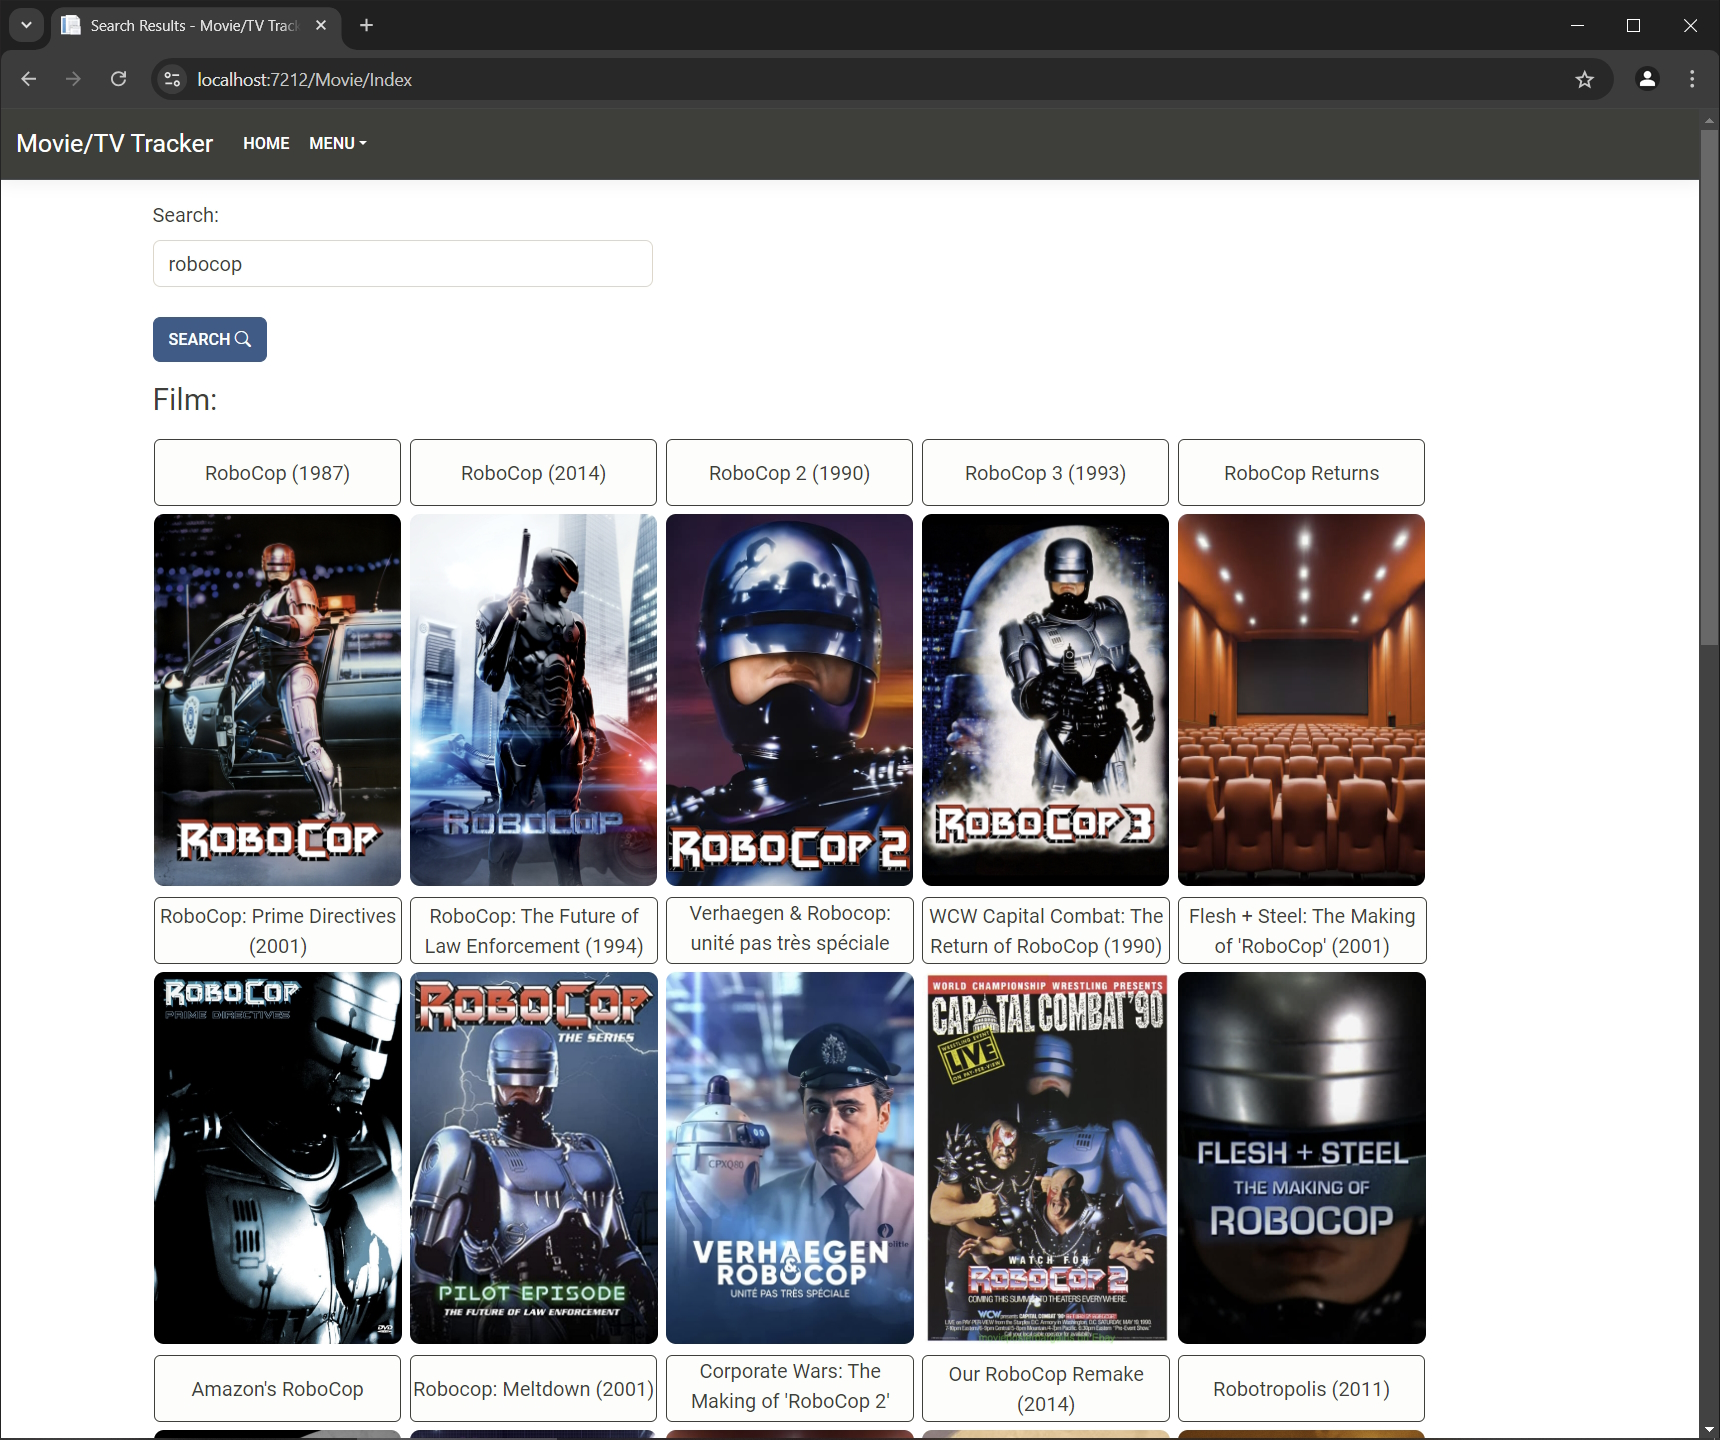
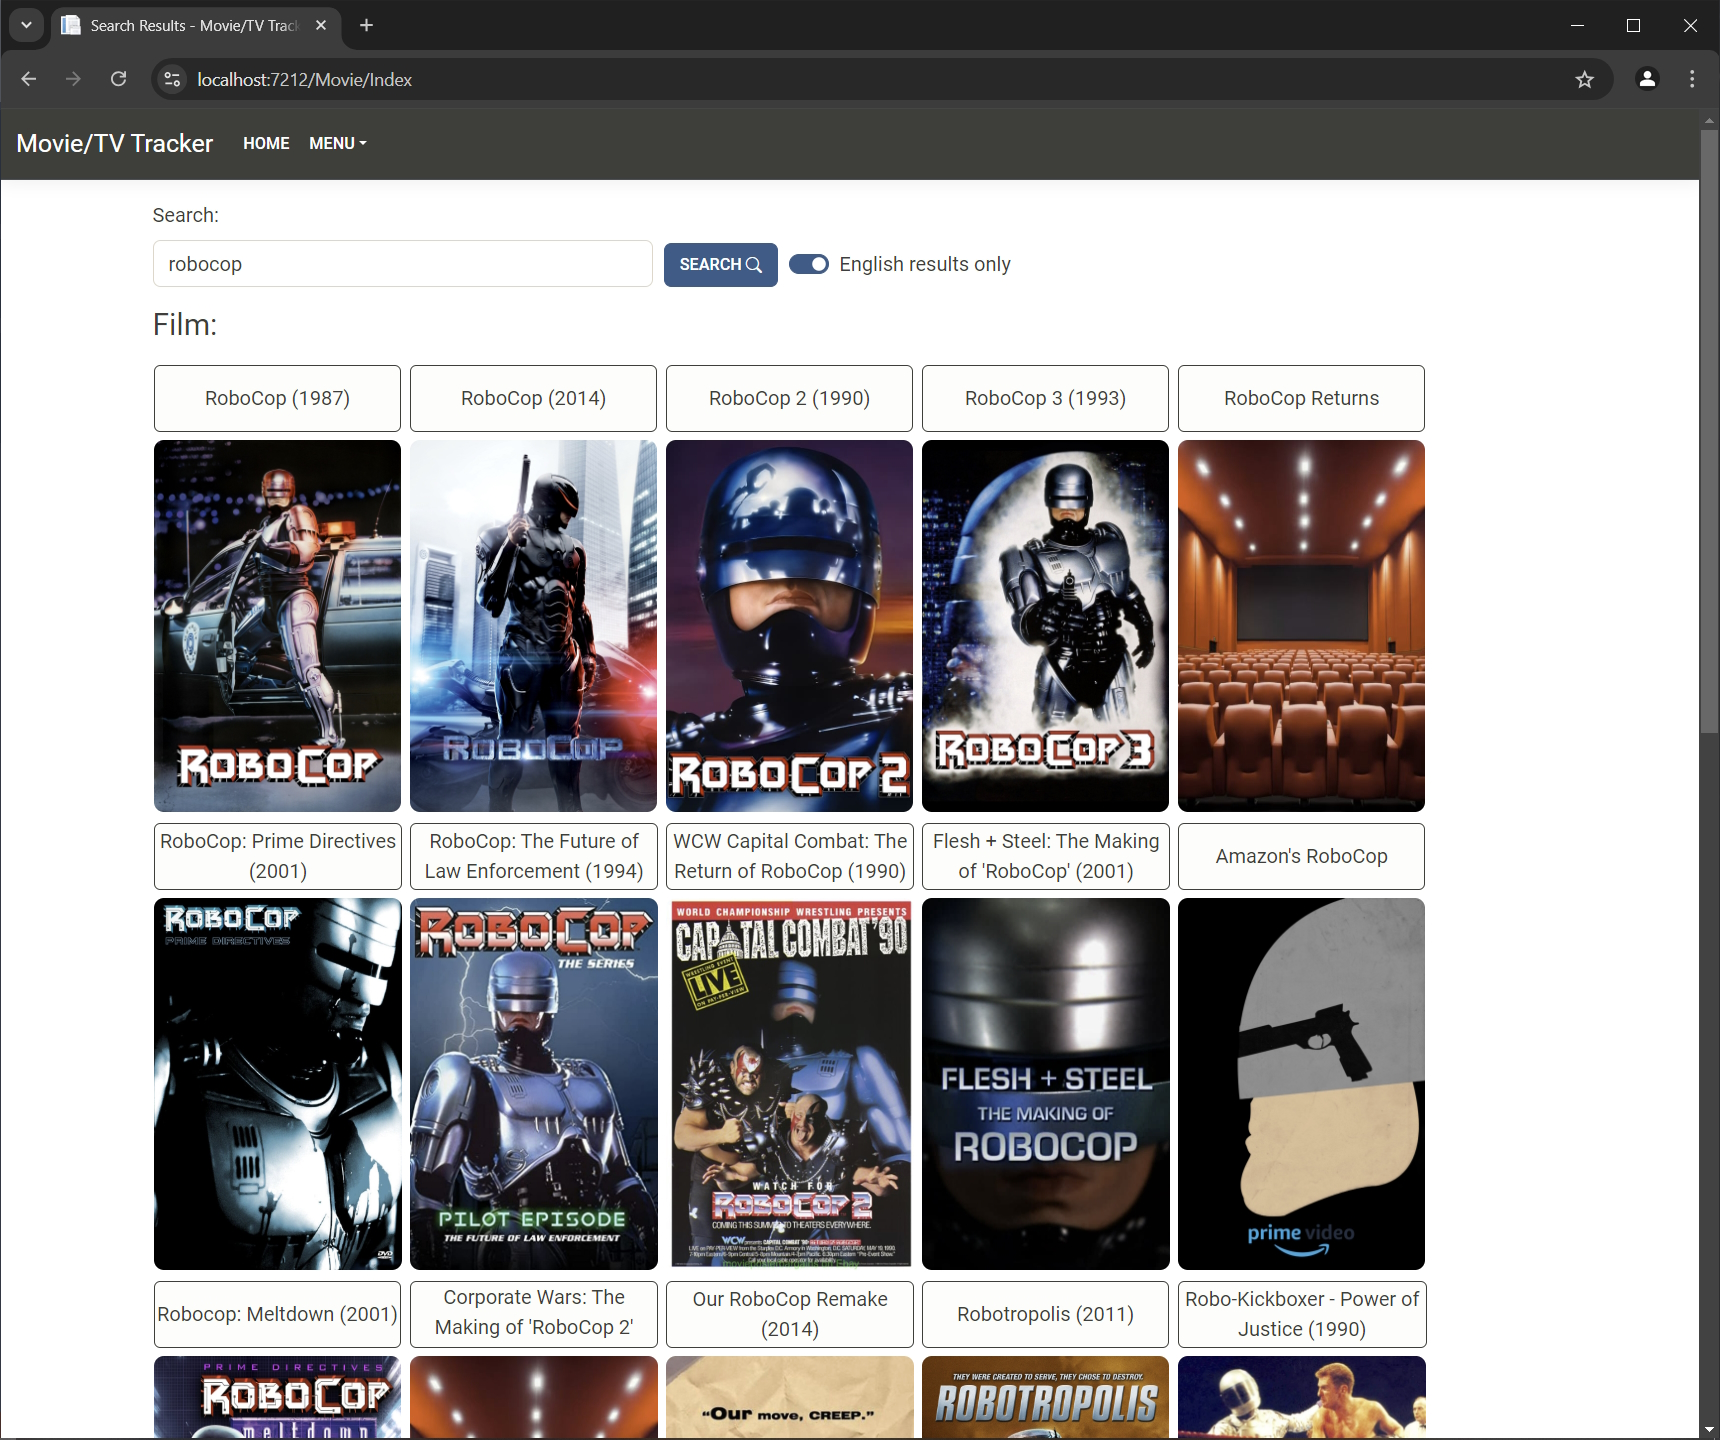
Updated images / readme.md.  Now shows chart data for watched tv show genres.  Chart script refs have been moved into a partial view.

diff --git a/MovieTvTracker.Web/Class/GetStatistics.cs b/MovieTvTracker.Web/Class/GetStatistics.cs
@@ -7,7 +7,7 @@ namespace MovieTvTracker.Web.Class
     public class GetStatistics : IGetStatistics
     {
         /// <summary>
-        /// Get the most popular years, genres of films for the user based on the database / TMDB API data provided
+        /// Get the most popular years, genres of films / tv for the user based on the database / TMDB API data provided
         /// - Could also have been done as a dictionary object but the below will be in a easier format for graphing / sorting
         /// </summary>
         /// <param name="media"></param>
@@ -43,13 +43,29 @@ namespace MovieTvTracker.Web.Class
                     }
                     else
                     {
-                        media.Stats.FilmGenres.Add(new FilmGenre() { Genre = genre.name, Qty = 1 });
+                        media.Stats.FilmGenres.Add(new ContentGenre() { Genre = genre.name, Qty = 1 });
                     }
                 }
             }
 
+            foreach (WatchedMediaItem item in media.WatchedMediaResults.WatchedTV)
+            {
+                foreach (Genre genre in item.ResultReturn.TvIdResult.genres)
+                {
+                    if (media.Stats.TvGenres.Any(x => x.Genre == genre.name))
+                    {
+                        media.Stats.TvGenres.Where(x => x.Genre == genre.name).Select(x => x.Qty = x.Qty + 1).ToList();
+                    }
+                    else
+                    {
+                        media.Stats.TvGenres.Add(new ContentGenre() { Genre = genre.name, Qty = 1 });
+                    }
+                }
+            }
+            
             media.Stats.FilmYears = media.Stats.FilmYears.OrderBy(x => x.Year).ToList();
             media.Stats.FilmGenres = media.Stats.FilmGenres.OrderByDescending(x => x.Genre).ToList();
+            media.Stats.TvGenres = media.Stats.TvGenres.OrderByDescending(x => x.Genre).ToList();
 
             return media;
         }

diff --git a/MovieTvTracker.Web/Models/Stats.cs b/MovieTvTracker.Web/Models/Stats.cs
@@ -3,12 +3,14 @@
     public class Stats
     {
         public List<FilmYear> FilmYears { get; set; }
-        public List<FilmGenre> FilmGenres { get; set; }
+        public List<ContentGenre> FilmGenres { get; set; }
+        public List<ContentGenre> TvGenres { get; set; }
 
         public Stats()
         {
             FilmYears = new List<FilmYear>();
-            FilmGenres = new List<FilmGenre>();
+            FilmGenres = new List<ContentGenre>();
+            TvGenres = new List<ContentGenre>();
         }
     }
 }

diff --git a/MovieTvTracker.Web/Controllers/MovieController.cs b/MovieTvTracker.Web/Controllers/MovieController.cs
@@ -5,7 +5,6 @@ using MovieTvTracker.Web.Data;
 using TmdbApi.Lib.Interfaces;
 using MovieTvTracker.Web.Class;
 using MovieTvTracker.Web.Interfaces;
-using TmdbApi.Lib.Models;
 
 namespace MovieTvTracker.Web.Controllers
 {

diff --git a/MovieTvTracker.Web/Models/ContentGenre.cs b/MovieTvTracker.Web/Models/ContentGenre.cs
@@ -1,6 +1,6 @@
 namespace MovieTvTracker.Web.Models
 {
-    public class FilmGenre
+    public class ContentGenre
     {
         public String Genre { get; set; } 
         public Int32 Qty { get; set; }

diff --git a/README.md b/README.md
@@ -21,7 +21,8 @@ The second part of this project is a full-stack application consisting of a ASP.
 - Display of actor/actress information.
 - Ability to mark films/tv shows the user has watched and have them displayed under a dedicated section for reference.
 - Ability to mark favorite actors and have them displayed under a dedicated section for reference.
-- Show graph data of film years and genres the user has watched
+- Show graph data of film/tv years and genres the user has watched.
+- Filter by English only or worldwide search results.
 
 NOTE!:
 
